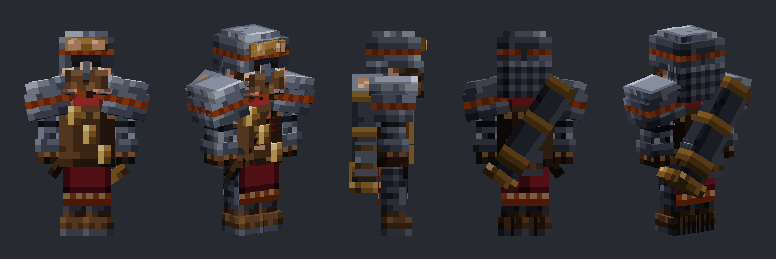
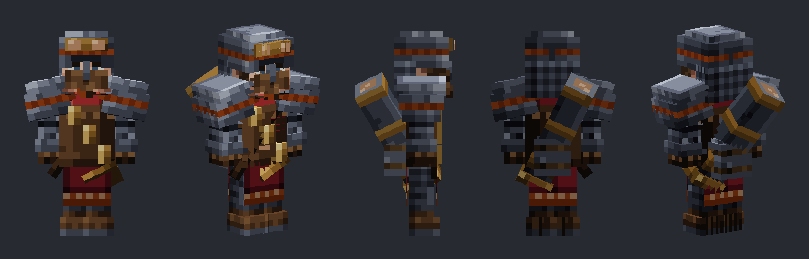
Retilt the Ironclad Mortar tube so the ember bore shows

diff --git a/art/hand/ic_mortar/build_ic_mortar.py b/art/hand/ic_mortar/build_ic_mortar.py
@@ -61,7 +61,7 @@ def bones():
         Box((-3.5, -8.7, -5.2), (7, 2, 1), brass(3, seed="gog")),
         Box((-3, -8.5, -5.5), (2, 1.5, 0.5), lens), Box((1, -8.5, -5.5), (2, 1.5, 0.5), lens)]))
     B.append(Bone("keg", "body", boxes=[Box((-3, -4, 2.2), (6, 6, 4), keg), Box((-2.5, -4.5, 2.6), (5, 1, 3), iron_plain(4, "kegcap", 1))]))
-    B.append(Bone("tube", "body", (-1, -5, 4.2), rot=(0, 0, -34), tag="siege",
+    B.append(Bone("tube", "body", (-1, -5, 4.2), rot=(-28, 0, -26), tag="siege",
                   boxes=[Box((-2.5, -10, -2.5), (5, 18, 5), tube), Box((-3, 8, -3), (6, 2, 6), brass(3, seed="breech"))]))
     B.append(Bone("sling", "body", (0, -5.5, -2.1), rot=(0, 0, 38), boxes=[Box((-0.75, -9.5, -0.25), (1.5, 19, 0.6), leather_ic(1, stitch=True), dil=0.1)]))
     for i, (x, y) in enumerate(((-3.1, -9.5), (-0.6, -6.2), (1.9, -2.9))):

diff --git a/docs/reports/ironclad-art-b-2026-11.md b/docs/reports/ironclad-art-b-2026-11.md
@@ -35,7 +35,7 @@ All three are tier I only. Siege engines and the maul are bones on the 1-texel s
 Ballista 8.5, Mortar 8.5, Brassjaw 8.5. Honest read: all three read clearly as Ironclad siege troops from the five turn views, but none is confirmed at 9 until seen in game.
 
 ## Unresolved defects
-- Mortar bore glow shows only from above; the tube leans over the back, so the ember is rarely visible from the ground. A steeper tube angle would show it.
+- Mortar tube now tilts forward over the shoulder (second pass) so the ember bore shows in side views; still not seen in game.
 - Ballista engine sits close to the crewman; arm and animation clearance (`bow_draw` clip) is unchecked in game.
 - Brassjaw maul stands beside the right arm; its swing with the colossus attack clip is unchecked.
 - Ballista has no glow; its ember lives in the plume and brow band only.
@@ -43,3 +43,6 @@ Ballista 8.5, Mortar 8.5, Brassjaw 8.5. Honest read: all three read clearly as I
 
 ## Comparison with 891904e (the earlier 1-texel attempt)
 Coordinator pointed out 891904e was already 1-texel. Rendered both side by side: the fresh builders here are brighter on Brassjaw (arms and legs were near-black in 891904e) and add the maul; the Ballista engine is bulkier and more detailed. 891904e's Mortar shows its ember bore from the front, which this version does not (listed above). Kept the fresh versions for all three; the mortar bore angle is the one thing worth taking from 891904e. Palette module is `ironclad.py` shared with session A, not 891904e's `ic_style.py`.
+
+## Second pass (rebased on main)
+Mortar tube retilted to (-28, 0, -26). Fast verify green again. In-game turn check NOT run: about nine Minecraft client processes were running machine-wide, over the cap of 5, and the game tier is only a combat smoke that does not spawn these troops. Self-score unchanged at 8.5 until seen in game.
